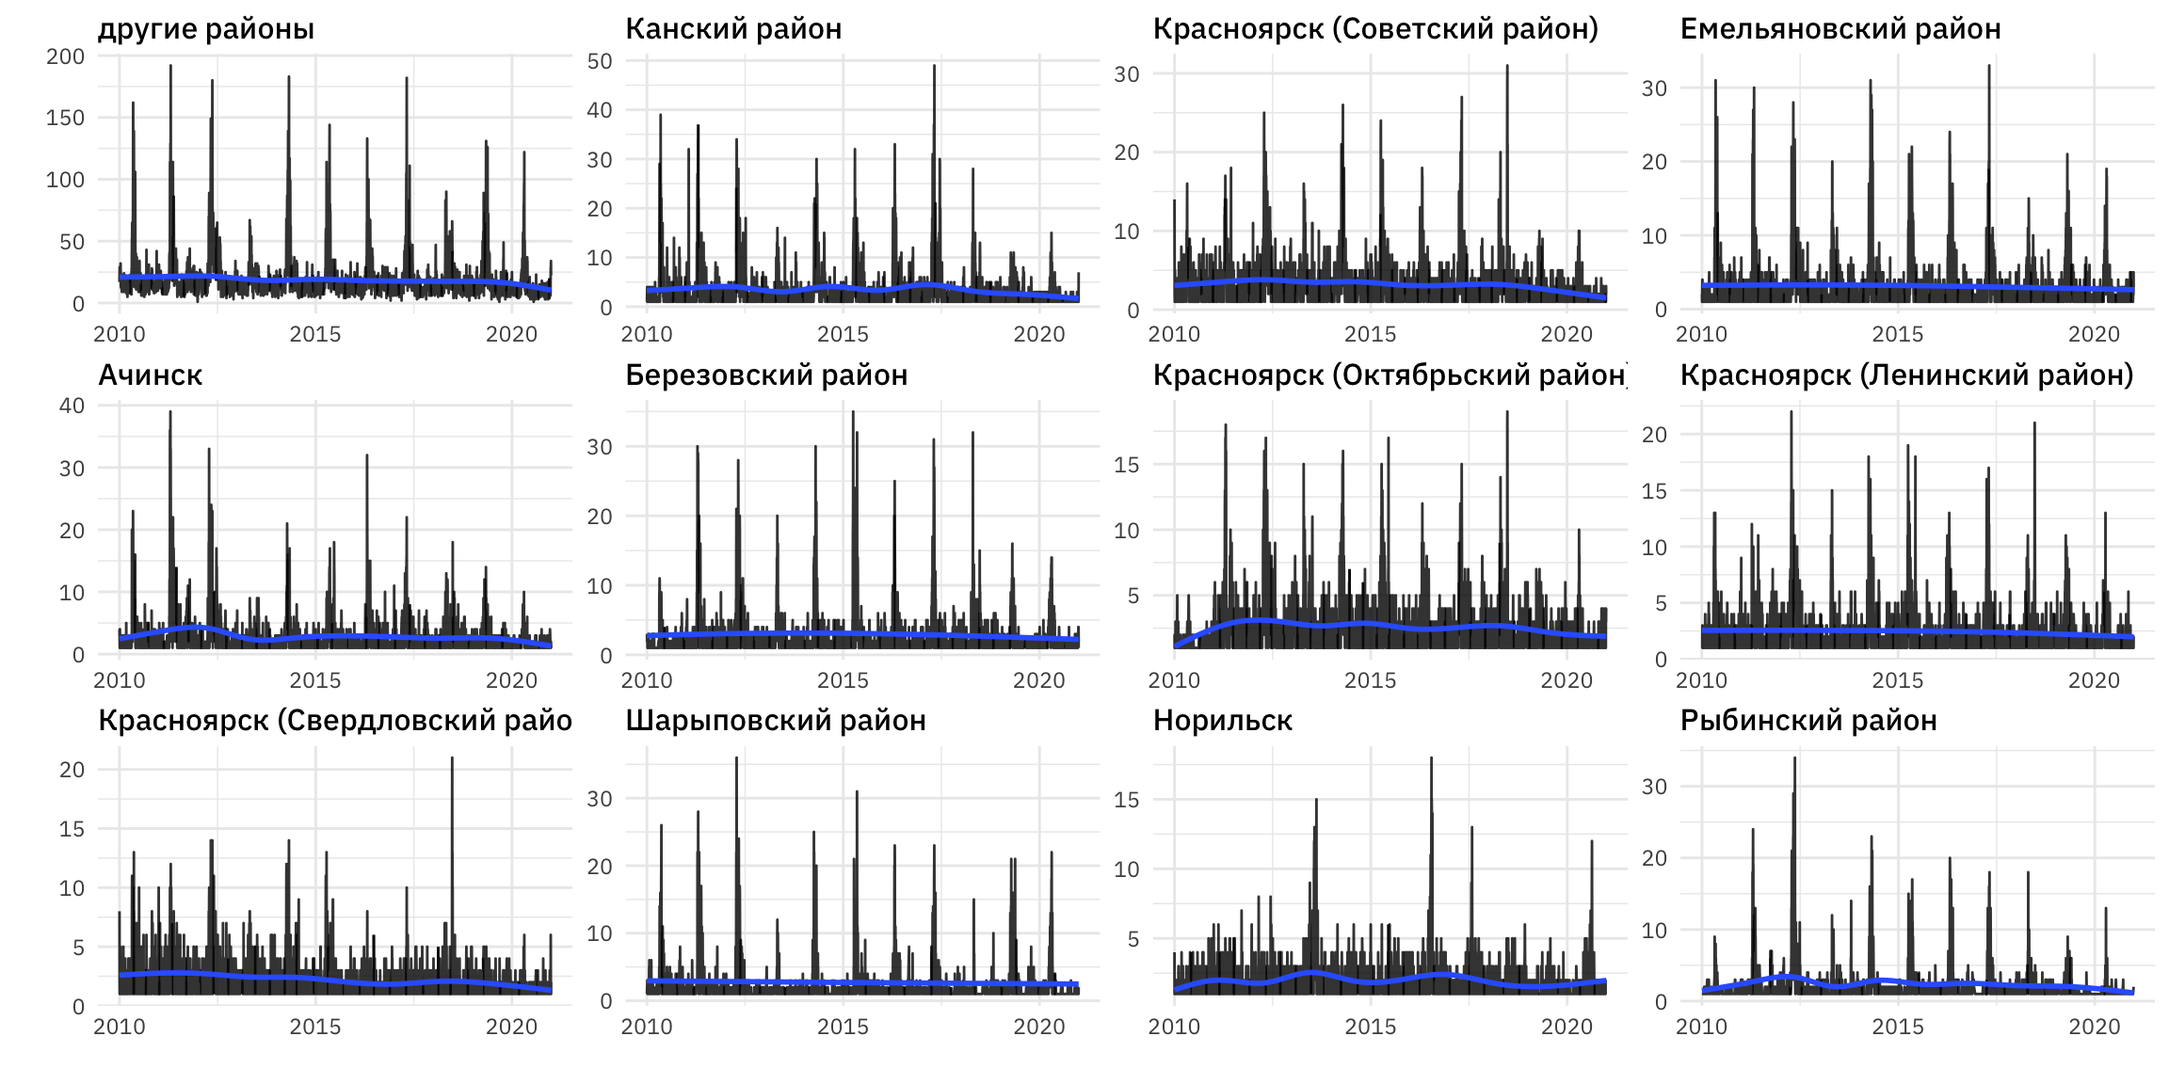
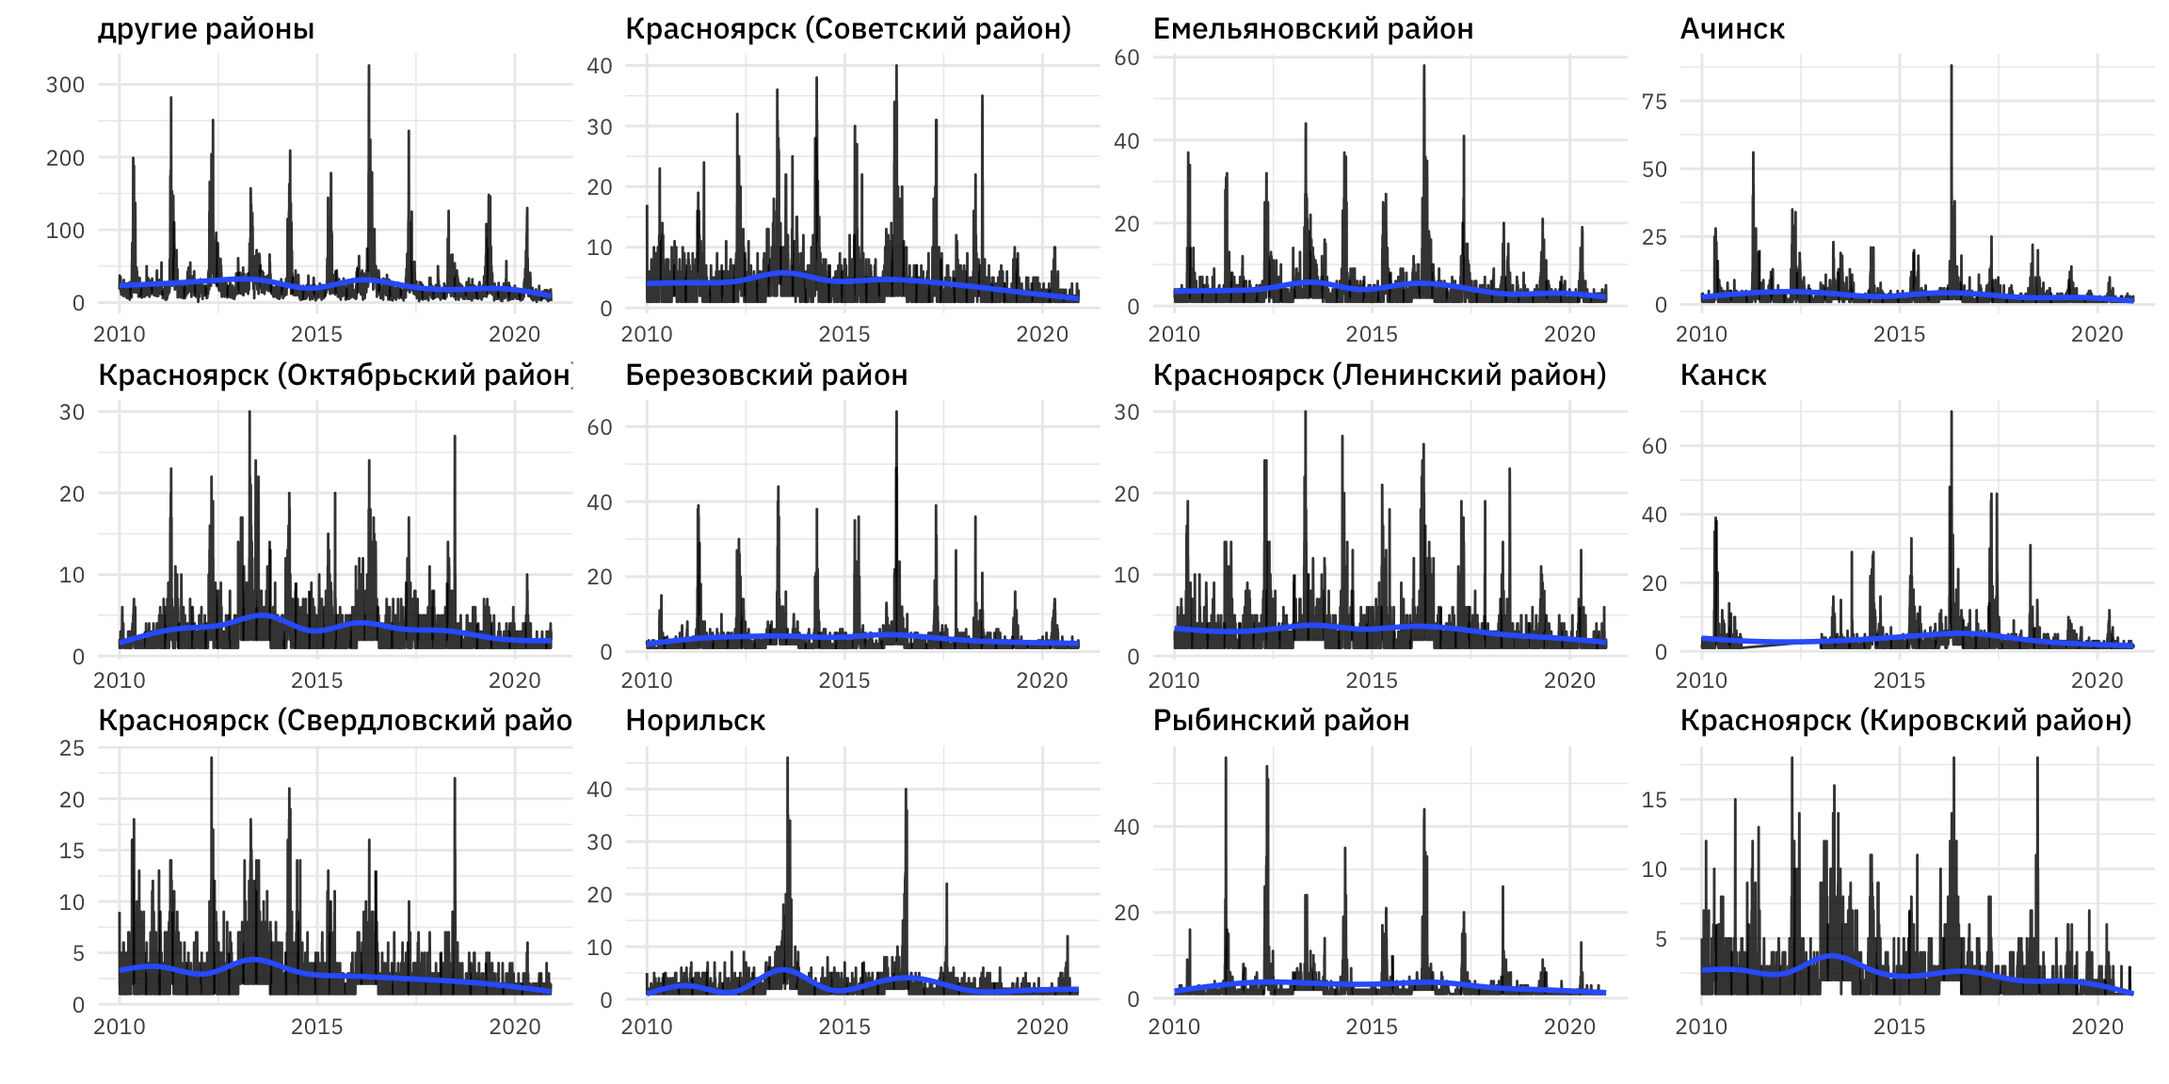
full join databases

diff --git a/content/post/2021-03-06-fire-krsk-1/index.ru.html b/content/post/2021-03-06-fire-krsk-1/index.ru.html
@@ -29,69 +29,69 @@ projects: []
 <h1>Исходные данные</h1>
 <p>Рассмотрим данные по пожарам в Красноярском крае<a href="#fn1" class="footnote-ref" id="fnref1"><sup>1</sup></a>. Основными переменными являются: <strong>дата пожара</strong> (переменная <code>f5</code>), <strong>район края</strong> (переменная <code>f2</code>) и <strong>вид населенного пункта</strong> (переменная <code>f6</code>). Каждая строка данных соответствует одному событию – пожару.</p>
 <pre class="r"><code>pozh_df</code></pre>
-<pre><code>## # A tibble: 159,453 x 3
-##    f2                  f5         f6                              
-##    &lt;fct&gt;               &lt;date&gt;     &lt;fct&gt;                           
-##  1 Канский район       2014-02-12 Сельский населенный пункт       
-##  2 Дзержинский район   2014-02-24 Сельский населенный пункт       
-##  3 Лесосибирск         2014-03-07 Город                           
-##  4 Лесосибирск         2014-03-10 Город                           
-##  5 Емельяновский район 2014-03-18 Сельский населенный пункт       
-##  6 Курагинский район   2018-05-14 Населенный пункт городского типа
-##  7 Партизанский район  2014-03-10 Сельский населенный пункт       
-##  8 Назаровский район   2014-03-15 Сельский населенный пункт       
-##  9 Лесосибирск         2014-03-10 Город                           
-## 10 Назарово            2014-03-18 Город                           
-## # … with 159,443 more rows</code></pre>
+<pre><code>## # A tibble: 196,031 x 3
+##    f2                f5         f6                               
+##    &lt;fct&gt;             &lt;date&gt;     &lt;fct&gt;                            
+##  1 Абанский район    2010-01-01 Населенный пункт городского типа 
+##  2 Абанский район    2010-01-03 Сельский населенный пункт        
+##  3 Абанский район    2010-01-03 Сельский населенный пункт        
+##  4 Канск             2010-01-12 Город                            
+##  5 Абанский район    2010-01-05 Населенный пункт городского типа 
+##  6 Абанский район    2010-01-06 Сельский населенный пункт        
+##  7 Абанский район    2010-01-10 Вне территории населенного пункта
+##  8 Шарыповский район 2010-01-05 Сельский населенный пункт        
+##  9 Абанский район    2010-01-11 Населенный пункт городского типа 
+## 10 Абанский район    2010-01-11 Населенный пункт городского типа 
+## # … with 196,021 more rows</code></pre>
 <p>Диапазон дат наших данных охватывает период с 2010 по 2020 года.</p>
 <pre class="r"><code>range(pozh_df$f5)</code></pre>
-<pre><code>## [1] &quot;2010-01-01&quot; &quot;2020-12-31&quot;</code></pre>
+<pre><code>## [1] &quot;2010-01-01&quot; &quot;2020-12-02&quot;</code></pre>
 <p>Используя функцию <code>count()</code>, выделим районы с наибольшим количеством пожаров.</p>
 <pre class="r"><code>count(pozh_df, f2, sort = T)</code></pre>
-<pre><code>## # A tibble: 64 x 2
+<pre><code>## # A tibble: 66 x 2
 ##    f2                                  n
 ##    &lt;fct&gt;                           &lt;int&gt;
-##  1 Канский район                   11055
-##  2 Красноярск (Советский район)    10890
-##  3 Емельяновский район              9674
-##  4 Ачинск                           8282
-##  5 Березовский район                7979
-##  6 Красноярск (Октябрьский район)   7646
-##  7 Красноярск (Ленинский район)     6976
-##  8 Красноярск (Свердловский район)  6438
-##  9 Шарыповский район                5944
-## 10 Норильск                         5225
-## # … with 54 more rows</code></pre>
+##  1 Красноярск (Советский район)    13906
+##  2 Емельяновский район             12581
+##  3 Ачинск                           9998
+##  4 Красноярск (Октябрьский район)   9814
+##  5 Березовский район                9639
+##  6 Красноярск (Ленинский район)     8799
+##  7 Канск                            8662
+##  8 Красноярск (Свердловский район)  8288
+##  9 Норильск                         6951
+## 10 Рыбинский район                  6030
+## # … with 56 more rows</code></pre>
 <p>Наибольшее количество пожаров наблюдалось в городской черте.</p>
 <pre class="r"><code>count(pozh_df, f6, sort = T)</code></pre>
 <pre><code>## # A tibble: 9 x 2
-##   f6                                    n
-##   &lt;fct&gt;                             &lt;int&gt;
-## 1 Город                             95620
-## 2 Сельский населенный пункт         43112
-## 3 Вне территории населенного пункта 11110
-## 4 Населенный пункт городского типа   9460
-## 5 Станция                              75
-## 6 Жилой поселок при станции            40
-## 7 Вахтовый поселок                     12
-## 8 населенный пункт не указан           12
-## 9 Разъезд, перегон                     12</code></pre>
+##   f6                                     n
+##   &lt;fct&gt;                              &lt;int&gt;
+## 1 Город                             119739
+## 2 Сельский населенный пункт          51259
+## 3 Вне территории населенного пункта  13926
+## 4 Населенный пункт городского типа   10918
+## 5 Станция                               94
+## 6 Жилой поселок при станции             46
+## 7 Вахтовый поселок                      19
+## 8 Разъезд, перегон                      18
+## 9 вид населенного пункта не указан      12</code></pre>
 <p>Составим таблицу количества пожаров сразу по двум категориям: по районам края и видам населенных пунктов.</p>
 <pre class="r"><code>count(pozh_df, f2, f6, sort = T)</code></pre>
-<pre><code>## # A tibble: 244 x 3
+<pre><code>## # A tibble: 255 x 3
 ##    f2                              f6                            n
 ##    &lt;fct&gt;                           &lt;fct&gt;                     &lt;int&gt;
-##  1 Красноярск (Советский район)    Город                     10890
-##  2 Канский район                   Город                      9615
-##  3 Ачинск                          Город                      7676
-##  4 Красноярск (Октябрьский район)  Город                      7644
-##  5 Красноярск (Ленинский район)    Город                      6976
-##  6 Красноярск (Свердловский район) Город                      6438
-##  7 Емельяновский район             Сельский населенный пункт  5756
-##  8 Норильск                        Город                      5217
-##  9 Красноярск (Кировский район)    Город                      4775
-## 10 Красноярск (Центральный район)  Город                      3825
-## # … with 234 more rows</code></pre>
+##  1 Красноярск (Советский район)    Город                     13906
+##  2 Красноярск (Октябрьский район)  Город                      9811
+##  3 Ачинск                          Город                      9199
+##  4 Красноярск (Ленинский район)    Город                      8799
+##  5 Канск                           Город                      8637
+##  6 Красноярск (Свердловский район) Город                      8288
+##  7 Емельяновский район             Сельский населенный пункт  7769
+##  8 Норильск                        Город                      6942
+##  9 Красноярск (Кировский район)    Город                      6024
+## 10 Лесосибирск                     Город                      5144
+## # … with 245 more rows</code></pre>
 <p>Отобразим полученную табличную информацию графически, выделив только основные категории и упорядочив отдельные графики по убыванию. Оставим только категории с наибольшим количеством элементов, отнеся остальные категории в <code>другие</code> и организовав графики в виде матриц (используя так называемое <em>панелирование</em>).</p>
 <pre class="r"><code>library(tidytext)
 
@@ -215,7 +215,7 @@ pozh_ts &lt;- pozh_df %&gt;%
 <p>Отметим, что пропущенные данные имеются во всех районах края, пропущено (либо в этот день не наблюдалось пожаров) более 170 000 значений!</p>
 <pre class="r"><code># пропущенные значения есть во всех районах!
 has_gaps(pozh_ts) </code></pre>
-<pre><code>## # A tibble: 64 x 2
+<pre><code>## # A tibble: 66 x 2
 ##    f2                     .gaps
 ##    &lt;fct&gt;                  &lt;lgl&gt;
 ##  1 Абанский район         TRUE 
@@ -228,11 +228,11 @@ has_gaps(pozh_ts) </code></pre>
 ##  8 Боготольский район     TRUE 
 ##  9 Богучанский район      TRUE 
 ## 10 Большемуртинский район TRUE 
-## # … with 54 more rows</code></pre>
+## # … with 56 more rows</code></pre>
 <pre class="r"><code># пропущено более 170 000 значений
 scan_gaps(pozh_ts)</code></pre>
-<pre><code>## # A tsibble: 174,800 x 2 [1D]
-## # Key:       f2 [64]
+<pre><code>## # A tsibble: 179,619 x 2 [1D]
+## # Key:       f2 [66]
 ##    f2             f5        
 ##    &lt;fct&gt;          &lt;date&gt;    
 ##  1 Абанский район 2010-01-02
@@ -245,23 +245,23 @@ scan_gaps(pozh_ts)</code></pre>
 ##  8 Абанский район 2010-01-14
 ##  9 Абанский район 2010-01-16
 ## 10 Абанский район 2010-01-17
-## # … with 174,790 more rows</code></pre>
+## # … with 179,609 more rows</code></pre>
 <p>Самые большие пропуски данных по длительности наблюдались в Бородино и Сосновоборске.</p>
 <pre class="r"><code>count_gaps(pozh_ts) %&gt;% arrange(desc(.n))</code></pre>
-<pre><code>## # A tibble: 36,439 x 4
-##    f2             .from      .to           .n
-##    &lt;fct&gt;          &lt;date&gt;     &lt;date&gt;     &lt;int&gt;
-##  1 Бородино       2010-10-14 2019-01-22  3023
-##  2 Сосновоборск   2010-12-28 2018-12-31  2926
-##  3 Ачинский район 2010-12-30 2013-01-02   735
-##  4 Лесосибирск    2011-01-01 2012-12-31   731
-##  5 Минусинск      2011-01-01 2012-12-31   731
-##  6 Назарово       2011-01-01 2012-12-31   731
-##  7 Диксон         2012-09-13 2014-07-05   661
-##  8 Диксон         2014-07-07 2016-04-25   659
-##  9 Диксон         2016-04-27 2017-11-18   571
-## 10 Диксон         2011-09-09 2012-09-11   369
-## # … with 36,429 more rows</code></pre>
+<pre><code>## # A tibble: 37,288 x 4
+##    f2                .from      .to           .n
+##    &lt;fct&gt;             &lt;date&gt;     &lt;date&gt;     &lt;int&gt;
+##  1 Бородино          2010-10-14 2019-01-22  3023
+##  2 Сосновоборск      2010-12-28 2018-12-31  2926
+##  3 Ачинский район    2010-12-30 2013-01-02   735
+##  4 Шарыповский район 2010-12-29 2012-12-31   734
+##  5 Канск             2011-01-01 2012-12-31   731
+##  6 Лесосибирск       2011-01-01 2012-12-31   731
+##  7 Назарово          2011-01-01 2012-12-31   731
+##  8 Диксон            2012-09-13 2014-07-05   661
+##  9 Диксон            2014-07-07 2016-04-25   659
+## 10 Минусинск         2011-01-01 2012-07-30   577
+## # … with 37,278 more rows</code></pre>
 <p>Визуализируем все возможные пропуски в районах по годам в виде тепловой карты. Можно допустить, что в некоторых районах края (например, в отдаленном Эвенкийском районе) было мало пожаров за исследуемый период, однако, в некоторых районах пропуски затрагивают целые года. Меньше всего пропусков наблюдалось в районах города Красноярска.</p>
 <pre class="r"><code>mosaic_gaps &lt;-
 tibble(scan_gaps(pozh_ts)$f2, scan_gaps(pozh_ts)$f5 %&gt;% lubridate::year()) %&gt;% 
@@ -324,13 +324,13 @@ m &lt;- prophet(pozh_prophet)</code></pre>
 
 forecast &lt;- predict(m, future)
 tail(forecast[c(&#39;ds&#39;, &#39;yhat&#39;, &#39;yhat_lower&#39;, &#39;yhat_upper&#39;)])</code></pre>
-<pre><code>##              ds      yhat yhat_lower yhat_upper
-## 4378 2021-12-26 16.105420  -18.70940   51.30476
-## 4379 2021-12-27 11.200154  -26.58453   43.69908
-## 4380 2021-12-28  7.660304  -27.02648   43.43480
-## 4381 2021-12-29  8.185237  -28.06386   43.19727
-## 4382 2021-12-30  9.203435  -26.14846   44.80331
-## 4383 2021-12-31  9.429198  -25.49287   44.70764</code></pre>
+<pre><code>##              ds       yhat yhat_lower yhat_upper
+## 4349 2021-11-27  6.9027206  -40.65369   53.42302
+## 4350 2021-11-28  6.4249115  -39.44063   58.42009
+## 4351 2021-11-29 -0.3397986  -46.32481   46.61351
+## 4352 2021-11-30 -4.7742883  -54.98862   42.91211
+## 4353 2021-12-01 -4.3767039  -49.71535   43.98105
+## 4354 2021-12-02 -3.1958043  -50.89533   44.57331</code></pre>
 <p>Визуализируем прогноз.</p>
 <pre class="r"><code>plot(m, forecast)</code></pre>
 <div class="figure"><span id="fig:unnamed-chunk-20"></span>
